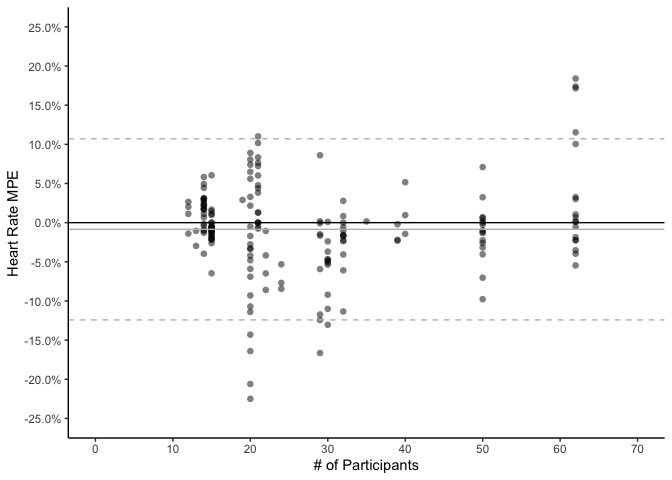
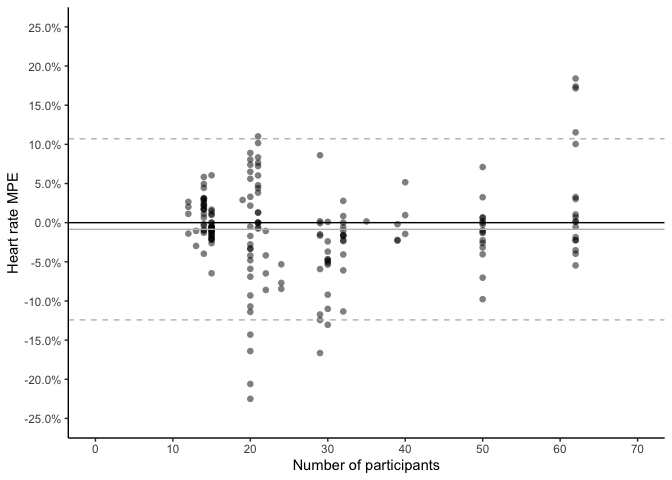
Code update based on journal proofs.

Changed region(s): [[0.4375, 0.9375, 0.6562, 1.0], [0.0, 0.3438, 0.0312, 0.5938]]

diff --git a/wearable_systematic_review.md b/wearable_systematic_review.md
@@ -18,9 +18,9 @@ validity <- read_excel("SysReview_Results_all_20190819.xlsx", sheet = "validity_
 ```
 
 ```
-## Warning in read_fun(path = enc2native(normalizePath(path)), sheet_i =
-## sheet, : Expecting logical in CU1178 / R1178C99: got 'at least one tracker
-## in approx 50% of subjects'
+## Warning in read_fun(path = enc2native(normalizePath(path)), sheet_i = sheet, :
+## Expecting logical in CU1178 / R1178C99: got 'at least one tracker in approx 50%
+## of subjects'
 ```
 
 ```r
@@ -142,7 +142,13 @@ brand_count_year <- brandcountbyyear %>%
         summarize(
           count = n()
         )
+```
 
+```
+## `summarise()` regrouping output by 'Year' (override with `.groups` argument)
+```
+
+```r
 brand_count_year
 ```
 
@@ -226,7 +232,7 @@ mpe_n_plot_sc <- ggplot(validity_mpe_sc_unfilter, aes(x = actual_n_analyzed, y =
                     scale_x_continuous(breaks = seq(0, 180, 30), limits = c(0, 180)) +
                     theme_classic() +
                     theme(plot.title = element_text(hjust = 0.5)) +
-                    xlab("# of Participants") +
+                    xlab("Number of Participants") +
                     ylab("Step MPE") +
                     annotate("rect", xmin = 35, xmax = 45, ymin = 1.00, ymax = 5.5, alpha = .2) + 
                     annotate("text", x = 55, y = 3.5, label = "outliers") 
@@ -261,8 +267,8 @@ mpe_n_plot_hr <- ggplot(validity_mpe_hr, aes(x = actual_n_analyzed, y = MPE)) +
                     scale_x_continuous(breaks = seq(0, 70, 10), limits = c(0, 70)) +
                     theme_classic() +
                     theme(plot.title = element_text(hjust = 0.5)) +
-                    xlab("# of Participants") +
-                    ylab("Heart Rate MPE") 
+                    xlab("Number of participants") +
+                    ylab("Heart rate MPE") 
 plot(mpe_n_plot_hr)
 ```
 
@@ -286,8 +292,8 @@ mpe_n_plot_ee <- ggplot(validity_mpe_ee, aes(x = actual_n_analyzed, y = MPE)) +
                     scale_x_continuous(breaks = seq(0, 120, 30), limits = c(0, 120)) +
                     theme_classic() +
                     theme(plot.title = element_text(hjust = 0.5)) +
-                    xlab("# of Participants") +
-                    ylab("Energy Expenditure MPE") +
+                    xlab("Number of Participants") +
+                    ylab("Energy expenditure MPE") +
                     annotate("rect", xmin = 30, xmax = 64, ymin = 1.30, ymax = 2.2, alpha = .2) + 
                     annotate("text", x = 46, y = 1.7, label = "outliers") 
 plot(mpe_n_plot_ee)
@@ -374,7 +380,13 @@ mpe_step <- validity_mpe_sc_brandfilter_control %>%
   mutate(se_mpe = mpe_mean / sqrt(mpe_n),
          l_ci_mpe = mpe_mean - qt(1 - (0.05 / 2), mpe_n - 1) * mpe_sd,
          u_ci_mpe = mpe_mean + qt(1 - (0.05 / 2), mpe_n - 1) * mpe_sd)
+```
 
+```
+## `summarise()` ungrouping output (override with `.groups` argument)
+```
+
+```r
 kable(mpe_step, format = "markdown")
 ```
 
@@ -409,7 +421,7 @@ mpe_plot_hr_brandfilter_control <- ggplot(validity_mpe_hr_brandfilter_control, a
                     geom_hline(yintercept = 0.03, size = 0.5, colour = "grey", linetype = "dashed") + 
                     geom_hline(yintercept = -0.03, size = 0.5, colour = "grey", linetype = "dashed") +   
                     theme_classic() +
-                    ylab("Heart Rate MPE") +
+                    ylab("Heart rate MPE") +
                     scale_colour_brewer(palette="Dark2") +
                     theme(legend.position = "none")
                     
@@ -434,7 +446,13 @@ mpe_heart <- validity_mpe_hr_brandfilter_control %>%
   mutate(se_mpe = mpe_mean / sqrt(mpe_n),
          l_ci_mpe = mpe_mean - qt(1 - (0.05 / 2), mpe_n - 1) * mpe_sd,
          u_ci_mpe = mpe_mean + qt(1 - (0.05 / 2), mpe_n - 1) * mpe_sd)
+```
 
+```
+## `summarise()` ungrouping output (override with `.groups` argument)
+```
+
+```r
 kable(mpe_heart, format = "markdown")
 ```
 
@@ -464,7 +482,7 @@ mpe_plot_ee_brandfilter_control <- ggplot(validity_mpe_ee_brandfilter_control, a
                     geom_hline(yintercept = 0.03, size = 0.5, colour = "grey", linetype = "dashed") + 
                     geom_hline(yintercept = -0.03, size = 0.5, colour = "grey", linetype = "dashed") +   
                     theme_classic() +
-                    ylab("Enegery Expenditure MPE") +
+                    ylab("Enegery expenditure MPE") +
                     scale_colour_brewer(palette="Dark2") +
                     theme(legend.position = "none")
 plot(mpe_plot_ee_brandfilter_control)
@@ -488,7 +506,13 @@ mpe_ee <- validity_mpe_ee_brandfilter_control %>%
   mutate(se_mpe = mpe_mean / sqrt(mpe_n),
          l_ci_mpe = mpe_mean - qt(1 - (0.05 / 2), mpe_n - 1) * mpe_sd,
          u_ci_mpe = mpe_mean + qt(1 - (0.05 / 2), mpe_n - 1) * mpe_sd)
+```
 
+```
+## `summarise()` ungrouping output (override with `.groups` argument)
+```
+
+```r
 kable(mpe_ee, format = "markdown")
 ```
 
@@ -602,7 +626,7 @@ mpe_plot_sc_device <- ggplot(validity_mpe_sc_device, aes(x = device_name, y = MP
                     geom_hline(yintercept = 0.03, size = 0.5, colour = "grey", linetype = "dashed") + 
                     geom_hline(yintercept = -0.03, size = 0.5, colour = "grey", linetype = "dashed") +    
                     scale_x_discrete(labels = wrap_format(50)) +
-                    xlab("Device Model") +
+                    xlab("Device model") +
                     ylab("Step MPE") +
                     theme_classic() +
                     scale_colour_brewer(palette="Dark2") +
@@ -636,7 +660,13 @@ mpe_step_model <- validity_mpe_sc_device %>%
   mutate(se_mpe = mpe_mean / sqrt(mpe_n),
          l_ci_mpe = mpe_mean - qt(1 - (0.05 / 2), mpe_n - 1) * mpe_sd,
          u_ci_mpe = mpe_mean + qt(1 - (0.05 / 2), mpe_n - 1) * mpe_sd)
+```
 
+```
+## `summarise()` ungrouping output (override with `.groups` argument)
+```
+
+```r
 kable(mpe_step_model, format = "markdown")
 ```
 
@@ -702,8 +732,8 @@ mpe_plot_hr_device <- ggplot(validity_mpe_hr_device, aes(x = device_name, y = MP
                     geom_hline(yintercept = 0.03, size = 0.5, colour = "grey", linetype = "dashed") + 
                     geom_hline(yintercept = -0.03, size = 0.5, colour = "grey", linetype = "dashed") +    
                     scale_x_discrete(labels = wrap_format(50)) +
-                    xlab("Device Model") +
-                    ylab("Heart Rate MPE") +
+                    xlab("Device model") +
+                    ylab("Heart rate MPE") +
                     theme_classic() +
                     scale_colour_brewer(palette="Dark2") +
                     theme(axis.text.x = element_text(angle = 90, hjust = 1))
@@ -728,7 +758,13 @@ mpe_hr_model <- validity_mpe_hr_device %>%
   mutate(se_mpe = mpe_mean / sqrt(mpe_n),
          l_ci_mpe = mpe_mean - qt(1 - (0.05 / 2), mpe_n - 1) * mpe_sd,
          u_ci_mpe = mpe_mean + qt(1 - (0.05 / 2), mpe_n - 1) * mpe_sd)
+```
 
+```
+## `summarise()` ungrouping output (override with `.groups` argument)
+```
+
+```r
 kable(mpe_hr_model, format = "markdown")
 ```
 
@@ -775,10 +811,10 @@ table(validity_mpe_ee_device$Device)
 
 ```
 ## 
-##    Charge Charge HR   Classic      Flex       One  Pulse O2  Pulse Ox 
-##        10        35        20        24        32        34        12 
-##     Ultra   Vivofit     Watch 
-##        10        29        25
+##    Charge Charge HR   Classic      Flex       One  Pulse O2  Pulse Ox     Ultra 
+##        10        35        20        24        32        34        12        10 
+##   Vivofit     Watch 
+##        29        25
 ```
 
 
@@ -790,10 +826,10 @@ mpe_plot_ee_device <- ggplot(validity_mpe_ee_device, aes(x = device_name, y = MP
                     geom_hline(yintercept = 0.03, size = 0.5, colour = "grey", linetype = "dashed") + 
                     geom_hline(yintercept = -0.03, size = 0.5, colour = "grey", linetype = "dashed") +    
                     scale_x_discrete(labels = wrap_format(50)) +
-                    xlab("Device Model") +
+                    xlab("Device model") +
                     theme_classic() +
                     scale_colour_brewer(palette="Dark2") +
-                    ylab("Energy Expenditure MPE") +
+                    ylab("Energy expenditure MPE") +
                     theme(axis.text.x = element_text(angle = 90, hjust = 1))
 plot(mpe_plot_ee_device)
 ```
@@ -816,6 +852,13 @@ mpe_ee_model <- validity_mpe_ee_device %>%
   mutate(se_mpe = mpe_mean / sqrt(mpe_n),
          l_ci_mpe = mpe_mean - qt(1 - (0.05 / 2), mpe_n - 1) * mpe_sd,
          u_ci_mpe = mpe_mean + qt(1 - (0.05 / 2), mpe_n - 1) * mpe_sd)
+```
+
+```
+## `summarise()` ungrouping output (override with `.groups` argument)
+```
+
+```r
 kable(mpe_ee_model, format = "markdown")
 ```
 
@@ -969,13 +1012,13 @@ table(reliability_cc_sc$reliability_type, reliability_cc_sc$Author)
 
 ```
 ##        
-##         Adam Noah Burton Clevenger De Ridder Diaz Jones Schaffer Sharp
-##   Inter         8      2         2         3    3    10        0     1
-##   Intra         0      0         0         0    0     0        3     0
+##         Adam Noah Burton Clevenger De Ridder Diaz Jones Schaffer Sharp Smith
+##   Inter         8      2         2         3    3    10        0     1     4
+##   Intra         0      0         0         0    0     0        3     0     0
 ##        
-##         Smith Takacs Tophøj
-##   Inter     4      5      0
-##   Intra     0      0     10
+##         Takacs Tophøj
+##   Inter      5      0
+##   Intra      0     10
 ```
 
 ```r
@@ -1040,8 +1083,8 @@ relcc_plot_sc_type <- ggplot(reliability_cc_sc, aes(x = reliability_type, y = CC
                     geom_beeswarm(dodge.width = 0.2,cex = 0.8, alpha = 0.5) + 
                     ylim(0,1) +
                     theme_classic() +
-                    ylab("Step Correlation Coefficient") + 
-                    xlab("Reliability Type") + 
+                    ylab("Step correlation coefficient") + 
+                    xlab("Reliability type") + 
                     scale_colour_brewer(palette="Dark2") +                    
                     theme(legend.position = "none")
 plot(relcc_plot_sc_type)
@@ -1224,8 +1267,8 @@ mpe_ee_plot_hr_device <- ggplot(validity_mpe_ee, aes(x = hr_yes, y = MPE, colour
                     geom_hline(yintercept = 0.03, size = 0.5, colour = "grey", linetype = "dashed") + 
                     geom_hline(yintercept = -0.03, size = 0.5, colour = "grey", linetype = "dashed") +    
                     scale_x_discrete(labels = wrap_format(10)) +
-                    xlab("Heart Rate Measurement") +
-                    ylab("Heart Rate MPE") +
+                    xlab("Heart rate measurement") +
+                    ylab("Heart rate MPE") +
                     theme_classic() +
                     scale_colour_brewer(palette="Dark2") +
                     theme(legend.justification = c(1, 1), 
